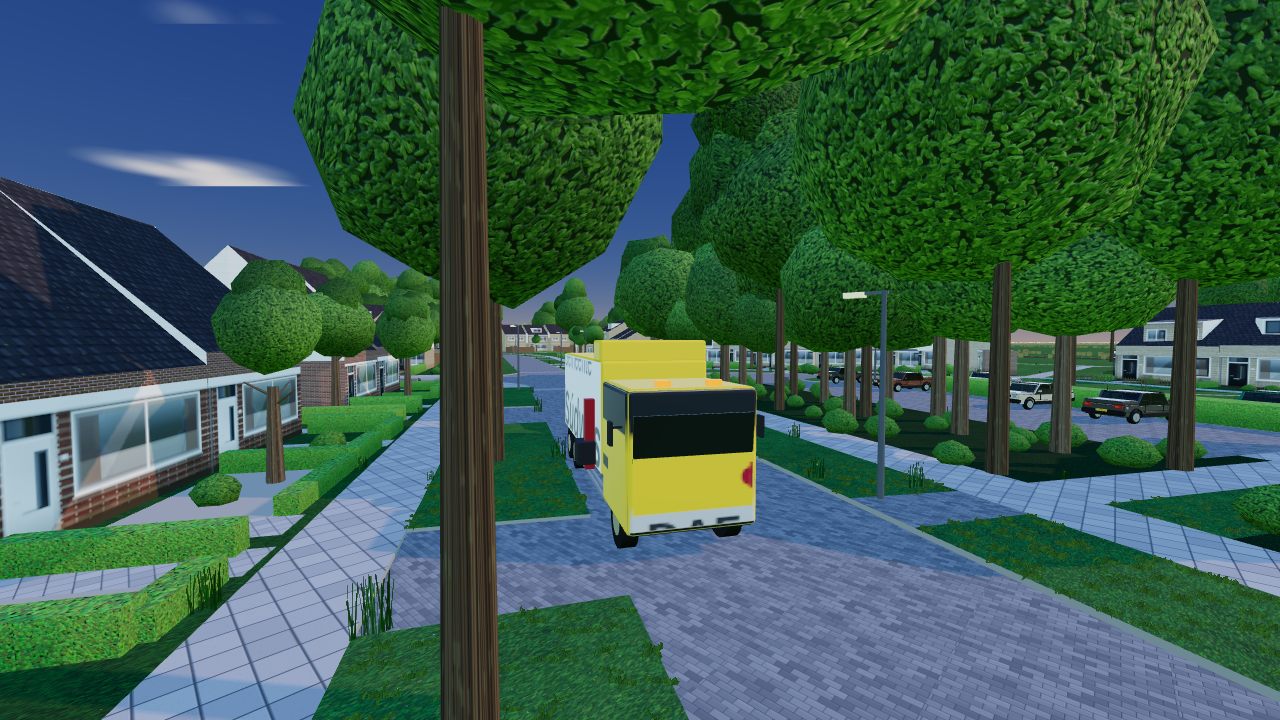
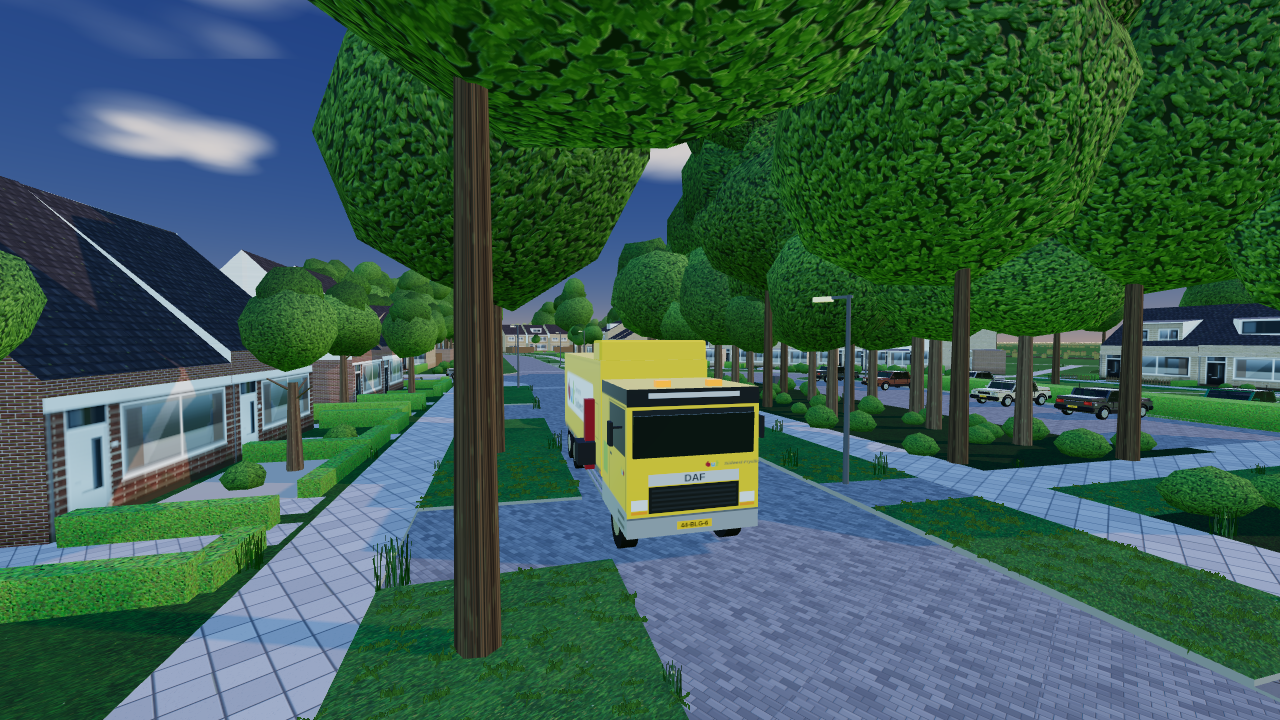
Stap 125: vuilniswagen valt terug op een kortere route; shaderproef vóór de rest; nieuwe foto
Claude-Session: https://claude.ai/code/session_019E5GRCbU4K5p9fAFQGuqaK

diff --git a/js/leven.js b/js/leven.js
@@ -562,8 +562,8 @@ export function initLeven({ scene, KAART, sfeer = null, vehicles = null, poiesz 
     const w = vuilWagen();
     if (!w) { vuil.reden = 'geen wagen'; return false; }
     vuil.reden = 'geen weg';
-    for (let poging = 0; poging < 6; poging++) {
-      const a = wegPunt(sp.x, sp.z, { van: 40, tot: 140 });
+    for (let poging = 0; poging < 10; poging++) {
+      const a = wegPunt(sp.x, sp.z, { van: 40, tot: 160 });
       const b = wegPunt(sp.x, sp.z, { van: VUILNIS.van_, tot: VUILNIS.tot_, weg: { x: sp.x, z: sp.z, min: 150 } });
       if (!a || !b) continue;
       vuil.reden = 'in zicht';
@@ -571,8 +571,10 @@ export function initLeven({ scene, KAART, sfeer = null, vehicles = null, poiesz 
       vuil.reden = 'geen route';
       // van ver weg, langs je, en weer ver weg: over het punt bij jou heen
       const c = wegPunt(sp.x, sp.z, { van: VUILNIS.van_, tot: VUILNIS.tot_, weg: { x: b.x, z: b.z, min: 250 } });
-      const L = lijnDoor(KAART, c ? [[b.x, b.z], [a.x, a.z], [c.x, c.z]] : [[b.x, b.z], [a.x, a.z]]);
-      if (!L || L.n < 4 || L.lengte > 1600) continue;
+      let L = c ? lijnDoor(KAART, [[b.x, b.z], [a.x, a.z], [c.x, c.z]]) : null;
+      // lukt de lijn over drie punten niet (een punt op een los stuk weg), dan van ver weg tot bij jou
+      if (!L || L.n < 4 || L.lengte > 1800) L = lijnDoor(KAART, [[b.x, b.z], [a.x, a.z]]);
+      if (!L || L.n < 4 || L.lengte > 1800) continue;
       vuil.reden = null;
       vuil.lijn = L; vuil.prof = profiel(L, { top: VUILNIS.top, dwars: 2.6 });
       vuil.s = 0; vuil.v = 0; vuil.stopT = 0; vuil.volgendeStop = VUILNIS.stopOm; vuil.fase = 'rijdt'; vuil.ritten++;
